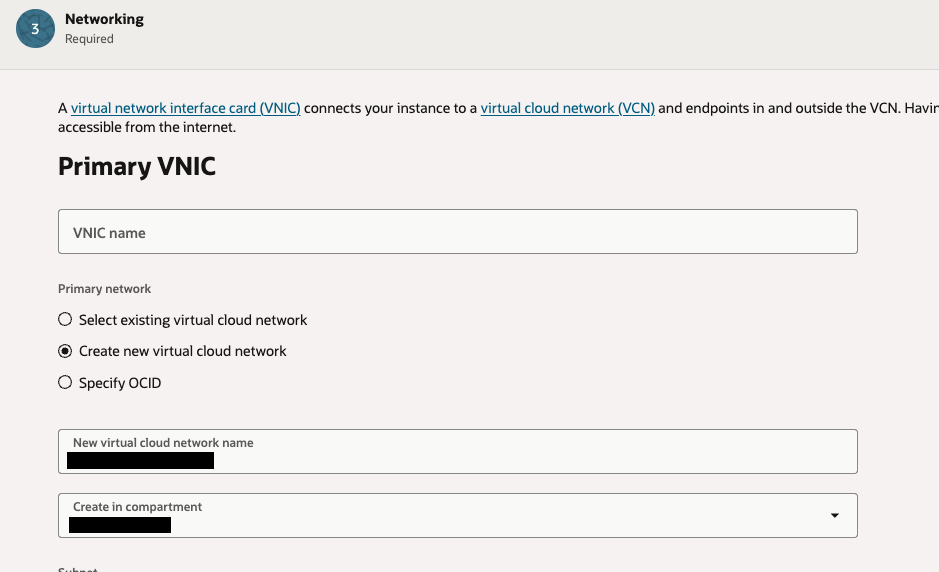
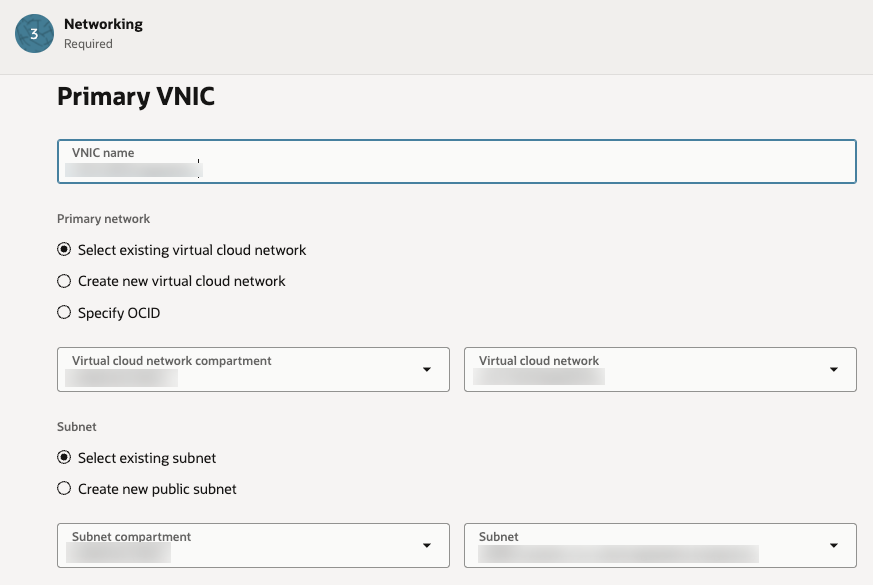
Desplegar web con Oracle Cloud. WIP

diff --git a/_posts/2026-06-29-desplegar-web-con-oracle-cloud.md b/_posts/2026-06-29-desplegar-web-con-oracle-cloud.md
@@ -96,10 +96,36 @@ Pasamos a la siguiente opción. `Primary VNIC`(virtual network interface card) e
 
 ¿Qué es lo que vamos a hacer nosotros aquí? Basicamente dejarlo todo en automático para intentar romper el menor número posible de cosas.
 
-Como __Primary Network__ vamos a elegir `Create new virutal cloud network`y mantenemos los valores que nos dé por defecto.
+Como __Primary Network__ vamos a elegir `Select existing virutal cloud network` y elegimos la **VCN** que creamos en pasos anteriores. Como __subnet__ hacemos exactamente lo mismo.
 
 ![Oracle Cloud Always Free paso a paso](/img/posts/20260629_15.png)
 
-Con la __Subnet__ hacemos lo mismo, que la cree automáticamente (que tampoco tenemos opción, vaya) y, por último, como __asignación de IPv4__ seleccionamos la opción `Automatically assign public IPv4 address`
+Llegados a este punto sólo nos queda configurar las IPv4, tanto pública como privada. Vamos a dejar las opciones por defecto, en `Private IPv4 address assignment` nos aseguramos de que esté seleccionada la opción de `Automatically assign private IPv4 address` y en `Public IPv4 address assignment` nos aseguramos que esté marcado el check de `Automatically assign public IPv4 address`
+
+![Oracle Cloud Always Free paso a paso](/img/posts/20260629_16.png)
+
+Lo siguiente va a ser generar nuestras claves pública y privada para conectarnos con **ssh** a la **máquina virtual**. Nos aseguramos de tener marcada la opción de `Generate a ket pair for me` dentro de `Add SSH keys` y nos descargamos ambos ficheros, el de clave privada y el de pública, y pulsamos `next`. **Nota importante:** El fichero de clave privada sólo podrás descargarlo en esta pantalla, nunca más. ¡NO LO PIERDAS!
+
+![Oracle Cloud Always Free paso a paso](/img/posts/20260629_17.png)
+
+Vamos con la sección de **Storage** ahora. A no ser que tu proyecto necesite más de 46.6 GB que es el tamaño por defecto del **volumen**, puedes dejar la configuración por defecto. En mi caso el docker ocupa menos de 1GB, la **base de datos** pocos megas (y no tiene visos de crecer mucho más). Haciendo una estimación contando la **imagen del sistema operativo**, no voy a necesitar más de 15GB y eso siendo muy generoso.
+
+![Oracle Cloud Always Free paso a paso](/img/posts/20260629_18.png)
+
+Una vez finalizado todo, pasaremos a ver una pantalla de resumen y podremos pulsar `Create`para generar nuestra **instancia** de **máquina virtual**.
+
+### Problemas a tener en cuenta
+
+Es muy posible que, al terminar la configuración de la máquina virtual y tratar de crearla te de este error:
+
+```
+Out of capacity for shape VM.Standard.A1.Flex in availability domain AD-1. Create the instance in a different availability domain or try again later.If you specified a fault domain, try creating the instance without specifying a fault domain. If that doesn’t work, please try again later.Learn more about host capacity.
+```
+
+Es un error muy común en Oracle Free Tier. Las VMs ARM Ampere A1 son muy demandadas y la capacidad es limitada por zona. Aquí hay dos posibilidades:
+
+- Cambiar de availability domain, que es lo más rápido. En la sección de `placement`de la instancia, cambiar de **AD-1** a **AD-2** o **AD-3** si tu región los tiene.
+- Reintenta más tarde. Oracle liberar capacidad de forma impredecible. Reintenta crear la máquina en otros momentos del día.
+
 
 **¡Salud y coding!**
